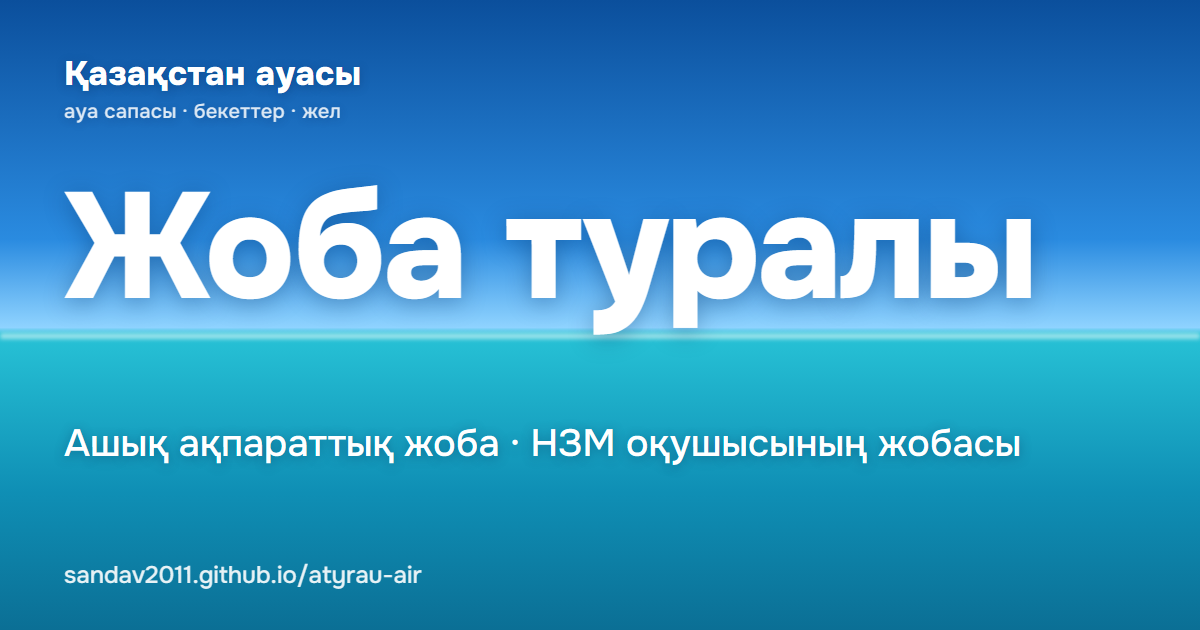
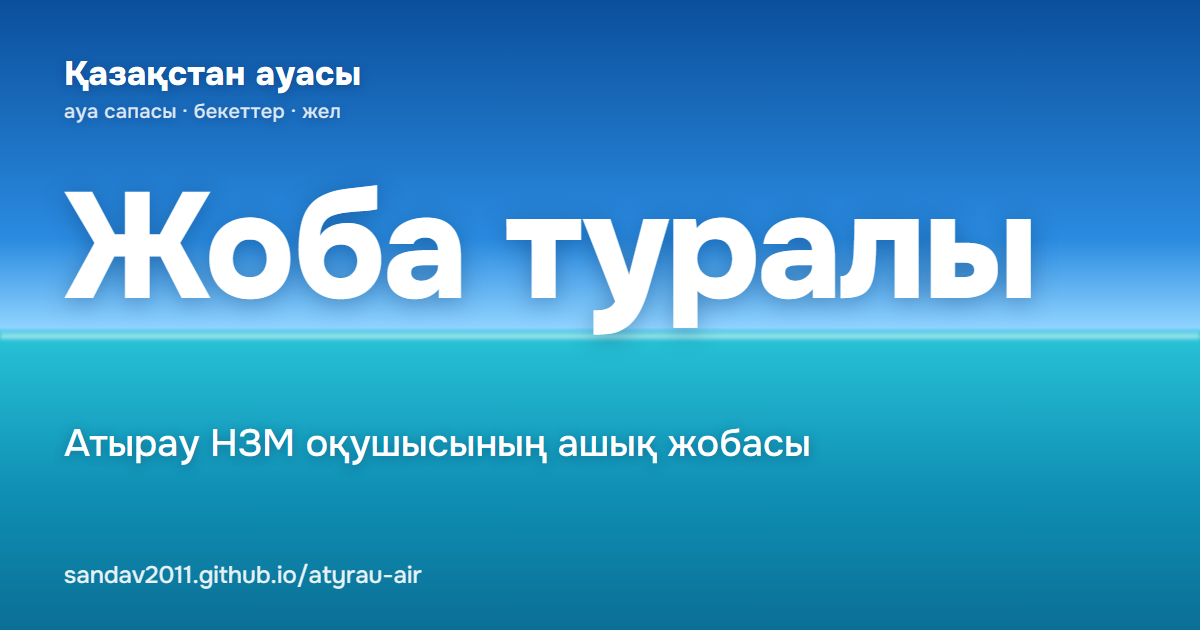
SEO: автор — Атырау НЗМ оқушысы (тегтер, JSON-LD, Жоба туралы, OG суреті)

Changed region(s): [[0.0617, 0.6635, 0.8633, 0.754]]

diff --git a/about.html b/about.html
@@ -5,10 +5,10 @@
 <meta name="viewport" content="width=device-width, initial-scale=1">
 <!-- SEO (tools/seo.py) -->
 <title>Жоба туралы — Қазақстан ауасы</title>
-<meta name="description" content="«Қазақстан ауасы» — ашық жоба. Автор: Санжар Давлетбаев (НЗМ). Дереккөздер: Қазгидромет, Open-Meteo.">
+<meta name="description" content="«Қазақстан ауасы» — ашық жоба. Автор: Санжар Давлетбаев, Атырау НЗМ оқушысы. Дереккөздер: Қазгидромет, Open-Meteo.">
 <link rel="canonical" href="https://sandav2011.github.io/atyrau-air/about.html">
 <meta name="theme-color" content="#0b4f7a">
-<meta name="author" content="Санжар Давлетбаев, НЗМ оқушысы">
+<meta name="author" content="Санжар Давлетбаев, Атырау НЗМ оқушысы">
 <meta name="robots" content="index, follow">
 <meta property="og:site_name" content="Қазақстан ауасы">
 <meta property="og:locale" content="kk_KZ">
@@ -23,8 +23,8 @@
 <script type="application/ld+json">
 {"@context": "https://schema.org", "@type": "WebSite", "name": "Қазақстан ауасы", "url": "https://sandav2011.github.io/atyrau-air/",
  "description": "Қазақстан қалаларындағы ауа сапасы картасы және талдау",
- "author": {"@type": "Person", "name": "Санжар Давлетбаев", "affiliation": {"@type": "EducationalOrganization", "name": "Назарбаев Зияткерлік мектебі (НЗМ)"}},
- "keywords": "ауа сапасы, Қазақстан, H2S, PM2.5, Қазгидромет, НЗМ, Назарбаев Зияткерлік мектебі, оқушы жобасы", "inLanguage": "kk"}
+ "author": {"@type": "Person", "name": "Санжар Давлетбаев", "affiliation": {"@type": "EducationalOrganization", "name": "Атырау қаласындағы Назарбаев Зияткерлік мектебі (НЗМ)"}},
+ "keywords": "ауа сапасы, Қазақстан, H2S, PM2.5, Қазгидромет, Атырау НЗМ, Назарбаев Зияткерлік мектебі, оқушы жобасы", "inLanguage": "kk"}
 </script>
 <!-- /SEO -->
 <link rel="preconnect" href="https://fonts.googleapis.com">
@@ -87,7 +87,7 @@
   <section class="card">
     <h2>Авторлар</h2>
     <ul>
-      <li>Санжар Давлетбаев — жобаның авторы, НЗМ мектебінің 10-сынып оқушысы</li>
+      <li>Санжар Давлетбаев — жобаның авторы, Атырау НЗМ-нің 10-сынып оқушысы</li>
       <li>Роман Давлетбаев — байланыс тұлғасы</li>
     </ul>
   </section>

diff --git a/index.html b/index.html
@@ -8,7 +8,7 @@
 <meta name="description" content="Қазақстан қалаларындағы ауа сапасы. Атырау, Алматы, Астана және басқа қалалардағы H₂S, PM2,5, SO₂ деңгейі, жел және ықтимал ластану көздері.">
 <link rel="canonical" href="https://sandav2011.github.io/atyrau-air/">
 <meta name="theme-color" content="#0b4f7a">
-<meta name="author" content="Санжар Давлетбаев, НЗМ оқушысы">
+<meta name="author" content="Санжар Давлетбаев, Атырау НЗМ оқушысы">
 <meta name="robots" content="index, follow">
 <meta property="og:site_name" content="Қазақстан ауасы">
 <meta property="og:locale" content="kk_KZ">
@@ -23,8 +23,8 @@
 <script type="application/ld+json">
 {"@context": "https://schema.org", "@type": "WebSite", "name": "Қазақстан ауасы", "url": "https://sandav2011.github.io/atyrau-air/",
  "description": "Қазақстан қалаларындағы ауа сапасы картасы және талдау",
- "author": {"@type": "Person", "name": "Санжар Давлетбаев", "affiliation": {"@type": "EducationalOrganization", "name": "Назарбаев Зияткерлік мектебі (НЗМ)"}},
- "keywords": "ауа сапасы, Қазақстан, H2S, PM2.5, Қазгидромет, НЗМ, Назарбаев Зияткерлік мектебі, оқушы жобасы", "inLanguage": "kk"}
+ "author": {"@type": "Person", "name": "Санжар Давлетбаев", "affiliation": {"@type": "EducationalOrganization", "name": "Атырау қаласындағы Назарбаев Зияткерлік мектебі (НЗМ)"}},
+ "keywords": "ауа сапасы, Қазақстан, H2S, PM2.5, Қазгидромет, Атырау НЗМ, Назарбаев Зияткерлік мектебі, оқушы жобасы", "inLanguage": "kk"}
 </script>
 <!-- /SEO -->
 <link rel="preconnect" href="https://fonts.googleapis.com">

diff --git a/gazdar.html b/gazdar.html
@@ -8,7 +8,7 @@
 <meta name="description" content="Ауадағы негізгі ластаушы заттар: күкіртсутек, күкірт диоксиді, азот диоксиді, шаң бөлшектері. Шекті мәндер, денсаулыққа әсері және өлшеу әдістері.">
 <link rel="canonical" href="https://sandav2011.github.io/atyrau-air/gazdar.html">
 <meta name="theme-color" content="#0b4f7a">
-<meta name="author" content="Санжар Давлетбаев, НЗМ оқушысы">
+<meta name="author" content="Санжар Давлетбаев, Атырау НЗМ оқушысы">
 <meta name="robots" content="index, follow">
 <meta property="og:site_name" content="Қазақстан ауасы">
 <meta property="og:locale" content="kk_KZ">

diff --git a/atyrau.html b/atyrau.html
@@ -8,7 +8,7 @@
 <meta name="description" content="Атыраудағы күкіртсутек (H₂S) иісінің көзін анықтау. Бекеттер деректері, жел бағыты және Гаусс шлейфі моделі бойынша талдау.">
 <link rel="canonical" href="https://sandav2011.github.io/atyrau-air/atyrau.html">
 <meta name="theme-color" content="#0b4f7a">
-<meta name="author" content="Санжар Давлетбаев, НЗМ оқушысы">
+<meta name="author" content="Санжар Давлетбаев, Атырау НЗМ оқушысы">
 <meta name="robots" content="index, follow">
 <meta property="og:site_name" content="Қазақстан ауасы">
 <meta property="og:locale" content="kk_KZ">

diff --git a/kyzylorda.html b/kyzylorda.html
@@ -8,7 +8,7 @@
 <meta name="description" content="Қызылордадағы ауа сапасы: күкірт диоксиді (SO2), NO2, CO және ұсақ шаң. Қазгидромет бекеттері мен жел — сағат сайын жаңарады.">
 <link rel="canonical" href="https://sandav2011.github.io/atyrau-air/kyzylorda.html">
 <meta name="theme-color" content="#0b4f7a">
-<meta name="author" content="Санжар Давлетбаев, НЗМ оқушысы">
+<meta name="author" content="Санжар Давлетбаев, Атырау НЗМ оқушысы">
 <meta name="robots" content="index, follow">
 <meta property="og:site_name" content="Қазақстан ауасы">
 <meta property="og:locale" content="kk_KZ">

diff --git a/kokshetau.html b/kokshetau.html
@@ -8,7 +8,7 @@
 <meta name="description" content="Көкшетаудағы ауа сапасы: күкірт диоксиді (SO2), NO2, CO және ұсақ шаң. Қазгидромет бекеттері мен жел — сағат сайын жаңарады.">
 <link rel="canonical" href="https://sandav2011.github.io/atyrau-air/kokshetau.html">
 <meta name="theme-color" content="#0b4f7a">
-<meta name="author" content="Санжар Давлетбаев, НЗМ оқушысы">
+<meta name="author" content="Санжар Давлетбаев, Атырау НЗМ оқушысы">
 <meta name="robots" content="index, follow">
 <meta property="og:site_name" content="Қазақстан ауасы">
 <meta property="og:locale" content="kk_KZ">

diff --git a/taldykorgan.html b/taldykorgan.html
@@ -8,7 +8,7 @@
 <meta name="description" content="Талдықорғандағы ауа сапасы: күкіртсутек (H2S), SO2, NO2 және CO. Қазгидромет бекеттері мен жел — сағат сайын жаңарады.">
 <link rel="canonical" href="https://sandav2011.github.io/atyrau-air/taldykorgan.html">
 <meta name="theme-color" content="#0b4f7a">
-<meta name="author" content="Санжар Давлетбаев, НЗМ оқушысы">
+<meta name="author" content="Санжар Давлетбаев, Атырау НЗМ оқушысы">
 <meta name="robots" content="index, follow">
 <meta property="og:site_name" content="Қазақстан ауасы">
 <meta property="og:locale" content="kk_KZ">

diff --git a/zhezkazgan.html b/zhezkazgan.html
@@ -8,7 +8,7 @@
 <meta name="description" content="Жезқазғандағы ауа сапасы: күкіртсутек (H2S), SO2, NO2 және CO. Қазгидромет бекеттері мен жел — сағат сайын жаңарады.">
 <link rel="canonical" href="https://sandav2011.github.io/atyrau-air/zhezkazgan.html">
 <meta name="theme-color" content="#0b4f7a">
-<meta name="author" content="Санжар Давлетбаев, НЗМ оқушысы">
+<meta name="author" content="Санжар Давлетбаев, Атырау НЗМ оқушысы">
 <meta name="robots" content="index, follow">
 <meta property="og:site_name" content="Қазақстан ауасы">
 <meta property="og:locale" content="kk_KZ">

diff --git a/karaganda.html b/karaganda.html
@@ -8,7 +8,7 @@
 <meta name="description" content="Қарағандыдағы ауа сапасы: күкіртсутек (H2S), SO2, NO2 және CO. Қазгидромет бекеттері мен жел — сағат сайын жаңарады.">
 <link rel="canonical" href="https://sandav2011.github.io/atyrau-air/karaganda.html">
 <meta name="theme-color" content="#0b4f7a">
-<meta name="author" content="Санжар Давлетбаев, НЗМ оқушысы">
+<meta name="author" content="Санжар Давлетбаев, Атырау НЗМ оқушысы">
 <meta name="robots" content="index, follow">
 <meta property="og:site_name" content="Қазақстан ауасы">
 <meta property="og:locale" content="kk_KZ">

diff --git a/petropavl.html b/petropavl.html
@@ -8,7 +8,7 @@
 <meta name="description" content="Петропавлдағы ауа сапасы: күкіртсутек (H2S), SO2, NO2 және CO. Қазгидромет бекеттері мен жел — сағат сайын жаңарады.">
 <link rel="canonical" href="https://sandav2011.github.io/atyrau-air/petropavl.html">
 <meta name="theme-color" content="#0b4f7a">
-<meta name="author" content="Санжар Давлетбаев, НЗМ оқушысы">
+<meta name="author" content="Санжар Давлетбаев, Атырау НЗМ оқушысы">
 <meta name="robots" content="index, follow">
 <meta property="og:site_name" content="Қазақстан ауасы">
 <meta property="og:locale" content="kk_KZ">

diff --git a/turkistan.html b/turkistan.html
@@ -8,7 +8,7 @@
 <meta name="description" content="Түркістандағы ауа сапасы: азот диоксиді (NO2), CO және SO2. Қазгидромет бекеттері мен жел — сағат сайын жаңарады.">
 <link rel="canonical" href="https://sandav2011.github.io/atyrau-air/turkistan.html">
 <meta name="theme-color" content="#0b4f7a">
-<meta name="author" content="Санжар Давлетбаев, НЗМ оқушысы">
+<meta name="author" content="Санжар Давлетбаев, Атырау НЗМ оқушысы">
 <meta name="robots" content="index, follow">
 <meta property="og:site_name" content="Қазақстан ауасы">
 <meta property="og:locale" content="kk_KZ">

diff --git a/pavlodar.html b/pavlodar.html
@@ -8,7 +8,7 @@
 <meta name="description" content="Павлодардағы ауа сапасы: күкіртсутек (H2S), SO2, NO2 және CO. Қазгидромет бекеттері мен жел — сағат сайын жаңарады.">
 <link rel="canonical" href="https://sandav2011.github.io/atyrau-air/pavlodar.html">
 <meta name="theme-color" content="#0b4f7a">
-<meta name="author" content="Санжар Давлетбаев, НЗМ оқушысы">
+<meta name="author" content="Санжар Давлетбаев, Атырау НЗМ оқушысы">
 <meta name="robots" content="index, follow">
 <meta property="og:site_name" content="Қазақстан ауасы">
 <meta property="og:locale" content="kk_KZ">
